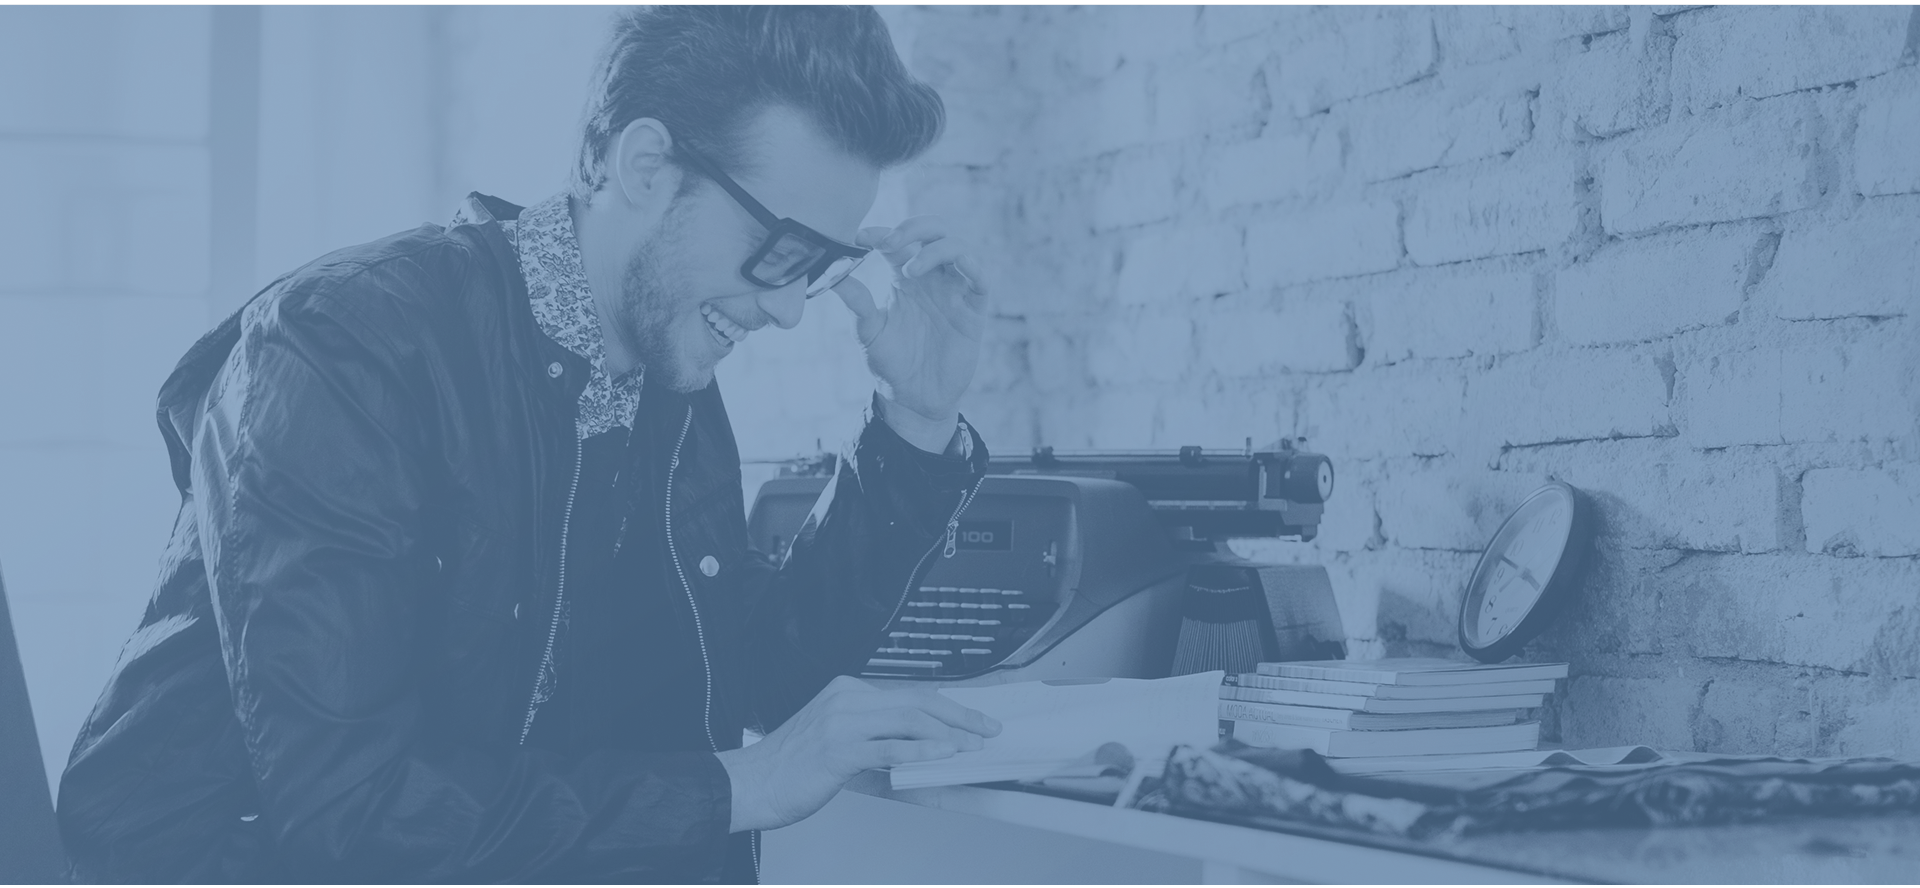
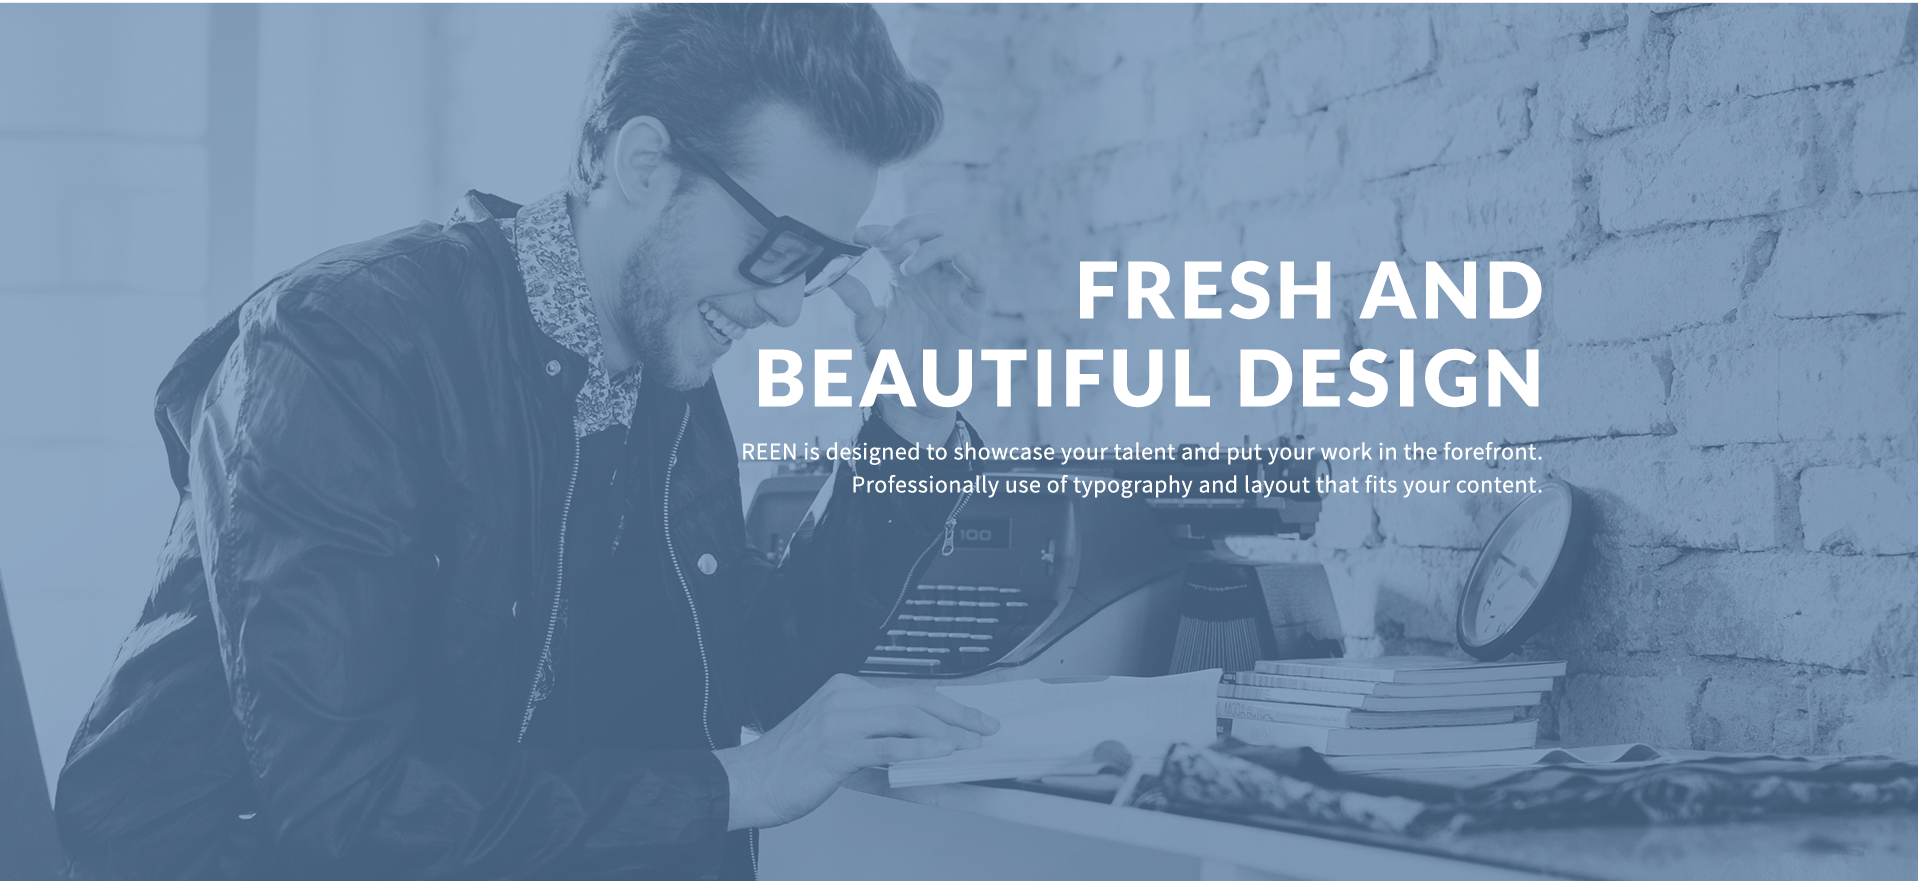
al noventa porciento
detalles en la alineacion de los botones

diff --git a/index.html b/index.html
@@ -4,6 +4,8 @@
 	<meta charset="UTF-8">
 	<title>Slider Responsive</title>
 	<link rel="stylesheet" href="css/flexslider.css" type="text/css">
+		<link rel="stylesheet" href="https://stackpath.bootstrapcdn.com/bootstrap/4.2.1/css/bootstrap.min.css" integrity="sha384-GJzZqFGwb1QTTN6wy59ffF1BuGJpLSa9DkKMp0DgiMDm4iYMj70gZWKYbI706tWS" crossorigin="anonymous">
+	<link href="https://fonts.googleapis.com/css?family=Raleway:400,700" rel="stylesheet">
 	<script src="https://ajax.googleapis.com/ajax/libs/jquery/1.6.2/jquery.min.js"></script>
 	<meta name="viewport" content="width=device-width, user-scalable=no, initial-scale=1.0, maximum-scale=1.0, minimum-scale=1.0">
 	<script src="js/jquery.flexslider.js"></script>
@@ -23,36 +25,40 @@
 			<li>
 				<img src="img/border-1.png" alt="">
 				<section class="flex-caption">
-					<p>MADE FOR DESIGNERS</p>
+					<p></p>
+						<li class="submit" id="boton"><button type="button" class="btn btn-success">GET STARTED NOW</button></li>
+
 				</section>
 			</li>
 			<li>
 				<img src="img/border-2.png" alt="">
 				<section class="flex-caption1">
-					<p>FRESH AND
-					 <br> 
-					BEAUTIFUL DESIGN </p>
-					
+					<p> </p>
+				<li class="submit" id="boton2"><button type="button" class="btn btn-success">GET STARTED NOW</button></li>
+
 				</section>
 			</li>
 			<li>
 				<img src="img/border-3.png" alt="">
 				<section class="flex-caption2">
-					<p>CLEAN AND
-					<br>
-					 REUSABLE CODE</p>
+					<p></p>
+						<li class="submit" id="boton3"><button type="button" class="btn btn-success">GET STARTED NOW</button></li>
 
 				</section>
 			</li>
 			<li>
 				<img src="img/border-4.png" alt="">
 				<section class="flex-caption3">
-					<p>JUST FOCUS ON <br> YOUR CREATIVITY</p>
+					<p></p>
+						<li class="submit" id="boton4"><button type="button" class="btn btn-success">GET STARTED NOW</button></li>
+
 				</section>
 				<li>
 				<img src="img/border-5.png" alt="">
 				<section class="flex-caption4">
-					<p>SHOWCASE <br> YOUR CONTENT </p>
+					<p> </p>
+						<li class="submit" id="boton5"><button type="button" class="btn btn-success">GET STARTED NOW</button></li>
+
 				</section>
 			</li>
 			</li>

diff --git a/css/flexslider.css b/css/flexslider.css
@@ -175,3 +175,24 @@
 .flexslider:hover .flex-direction-nav .flex-next:hover{
 	opacity: 1;
 }
+#boton{margin-top: -200px;
+text-align: center;
+
+}
+#boton2 {margin-top: -200px;
+text-align: right;
+
+}
+#boton3 {margin-top: -200px;
+text-align: left;
+
+}
+#boton4 {margin-top: -200px;
+text-align: right;
+height: 250px; 
+width: 350px;
+}
+#boton5 {margin-top: -250px;
+text-align: center;
+
+}
